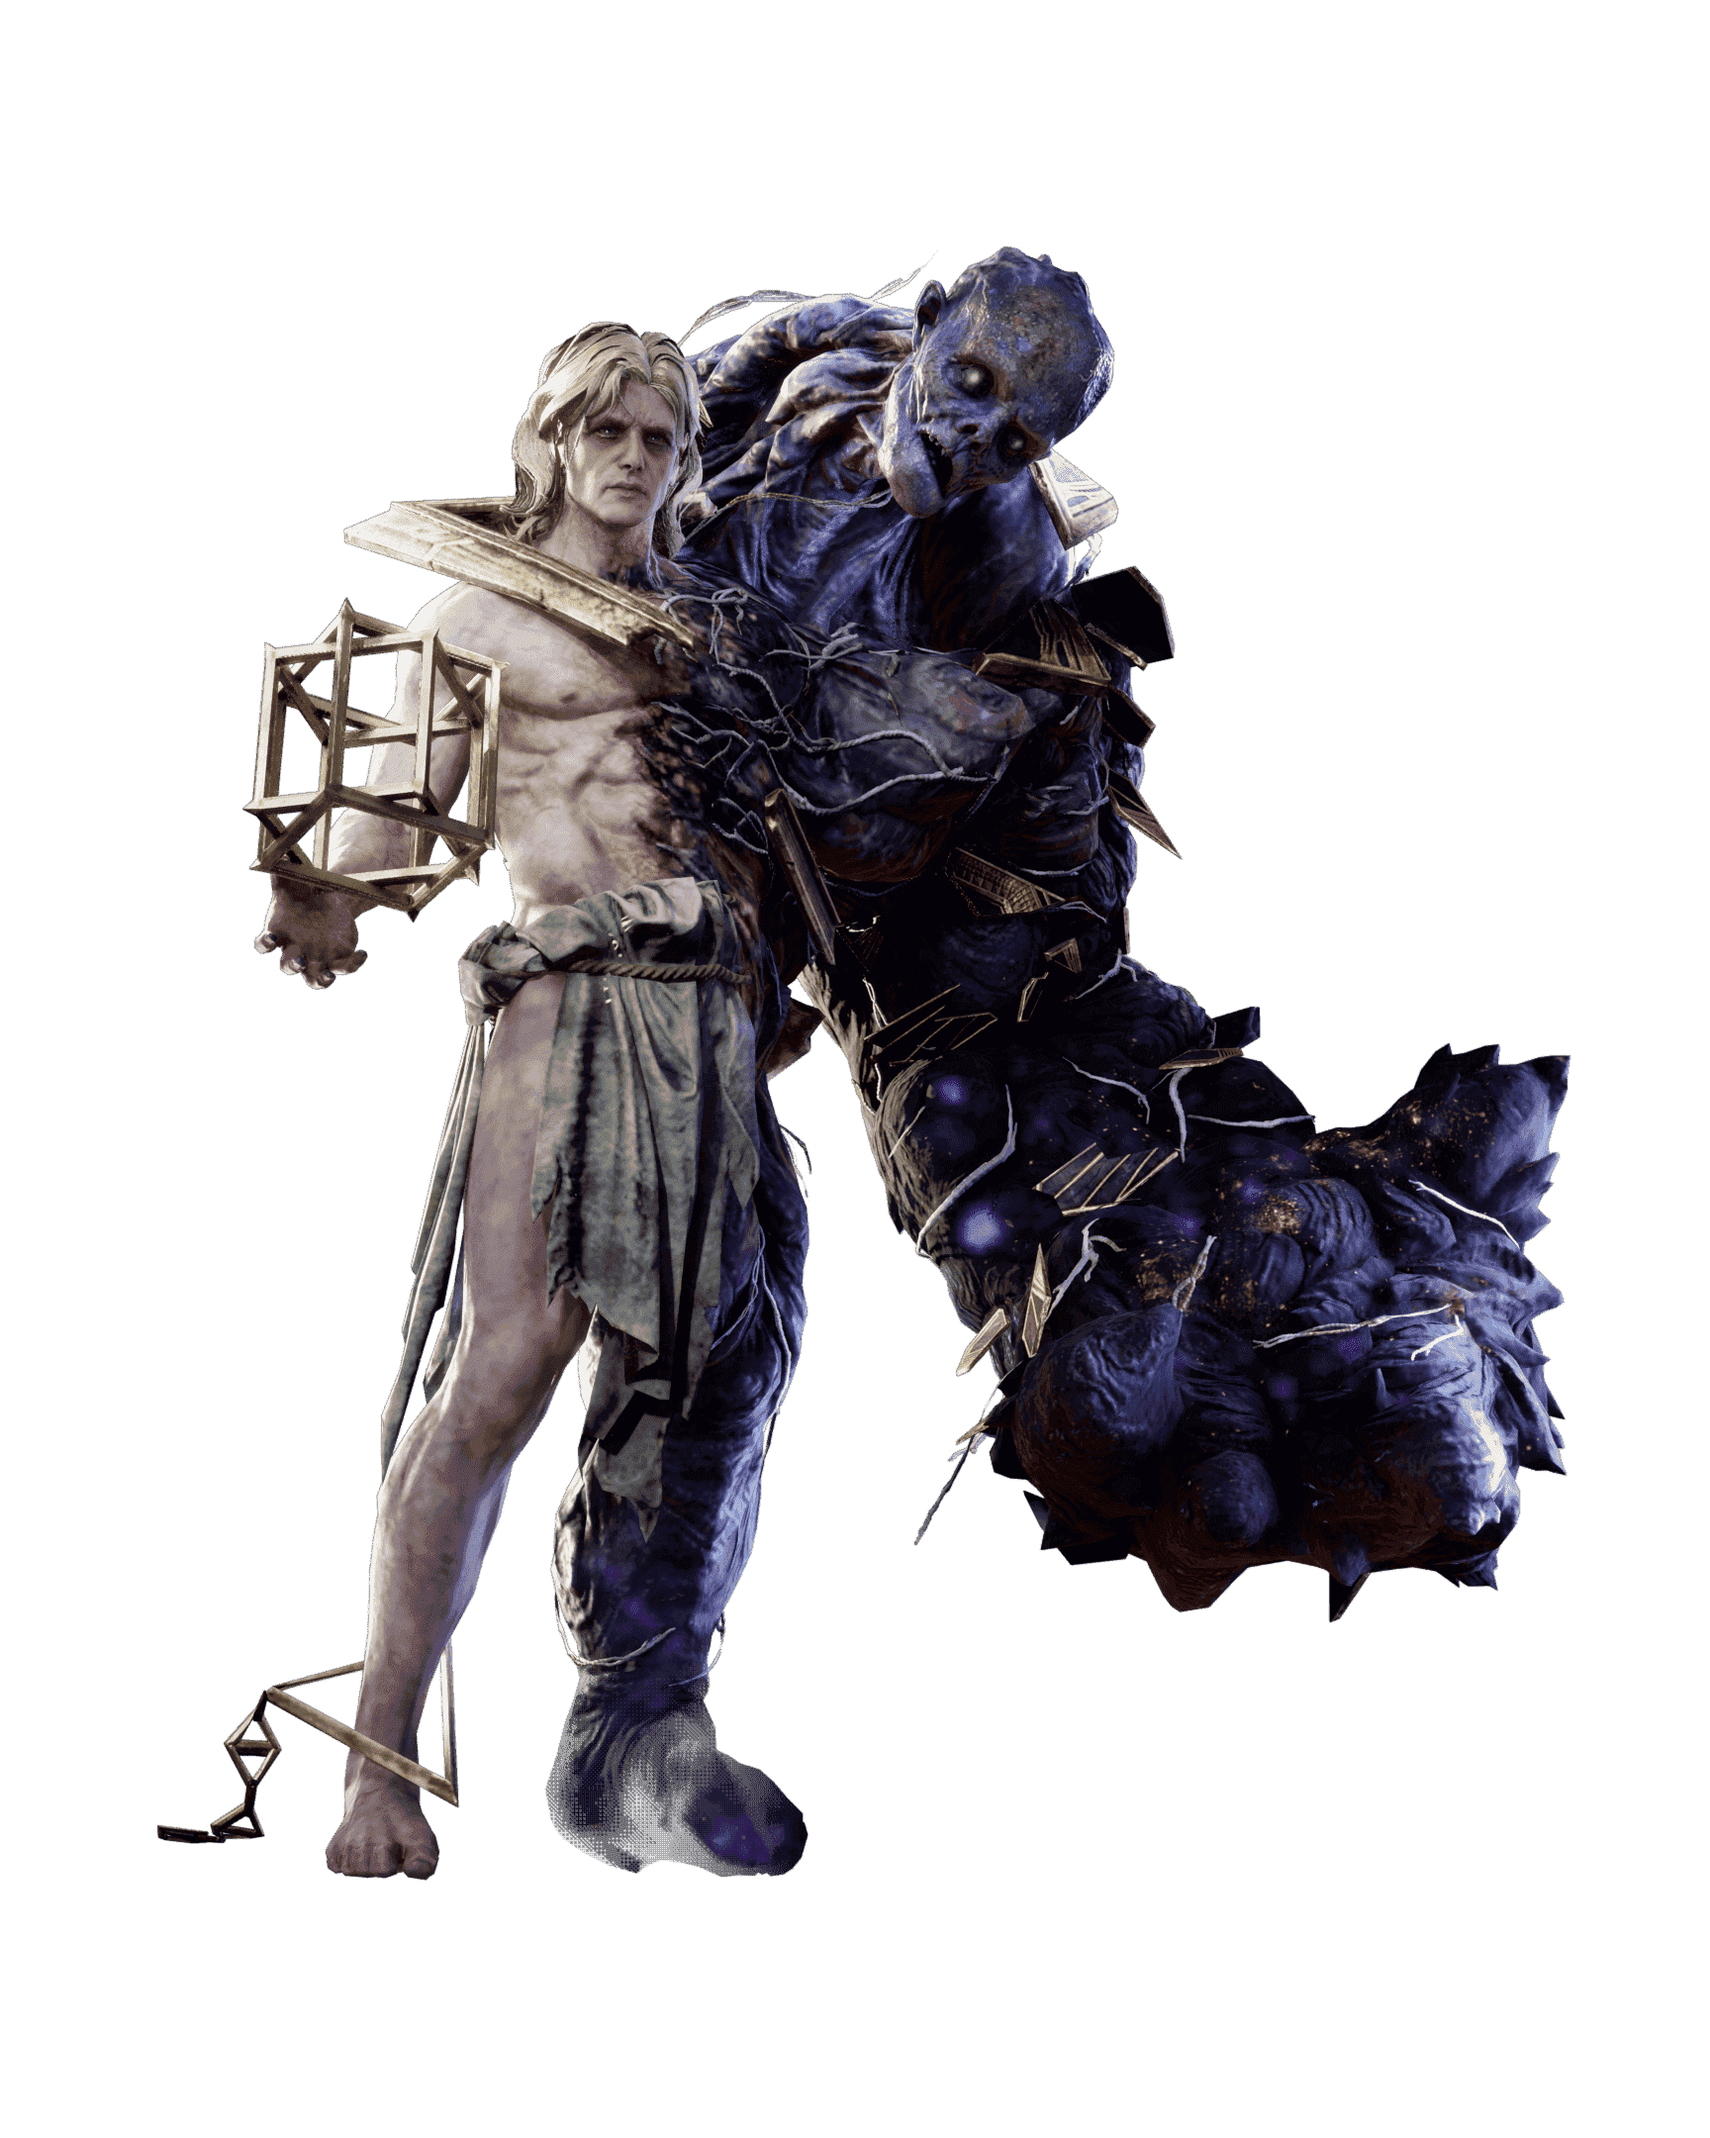
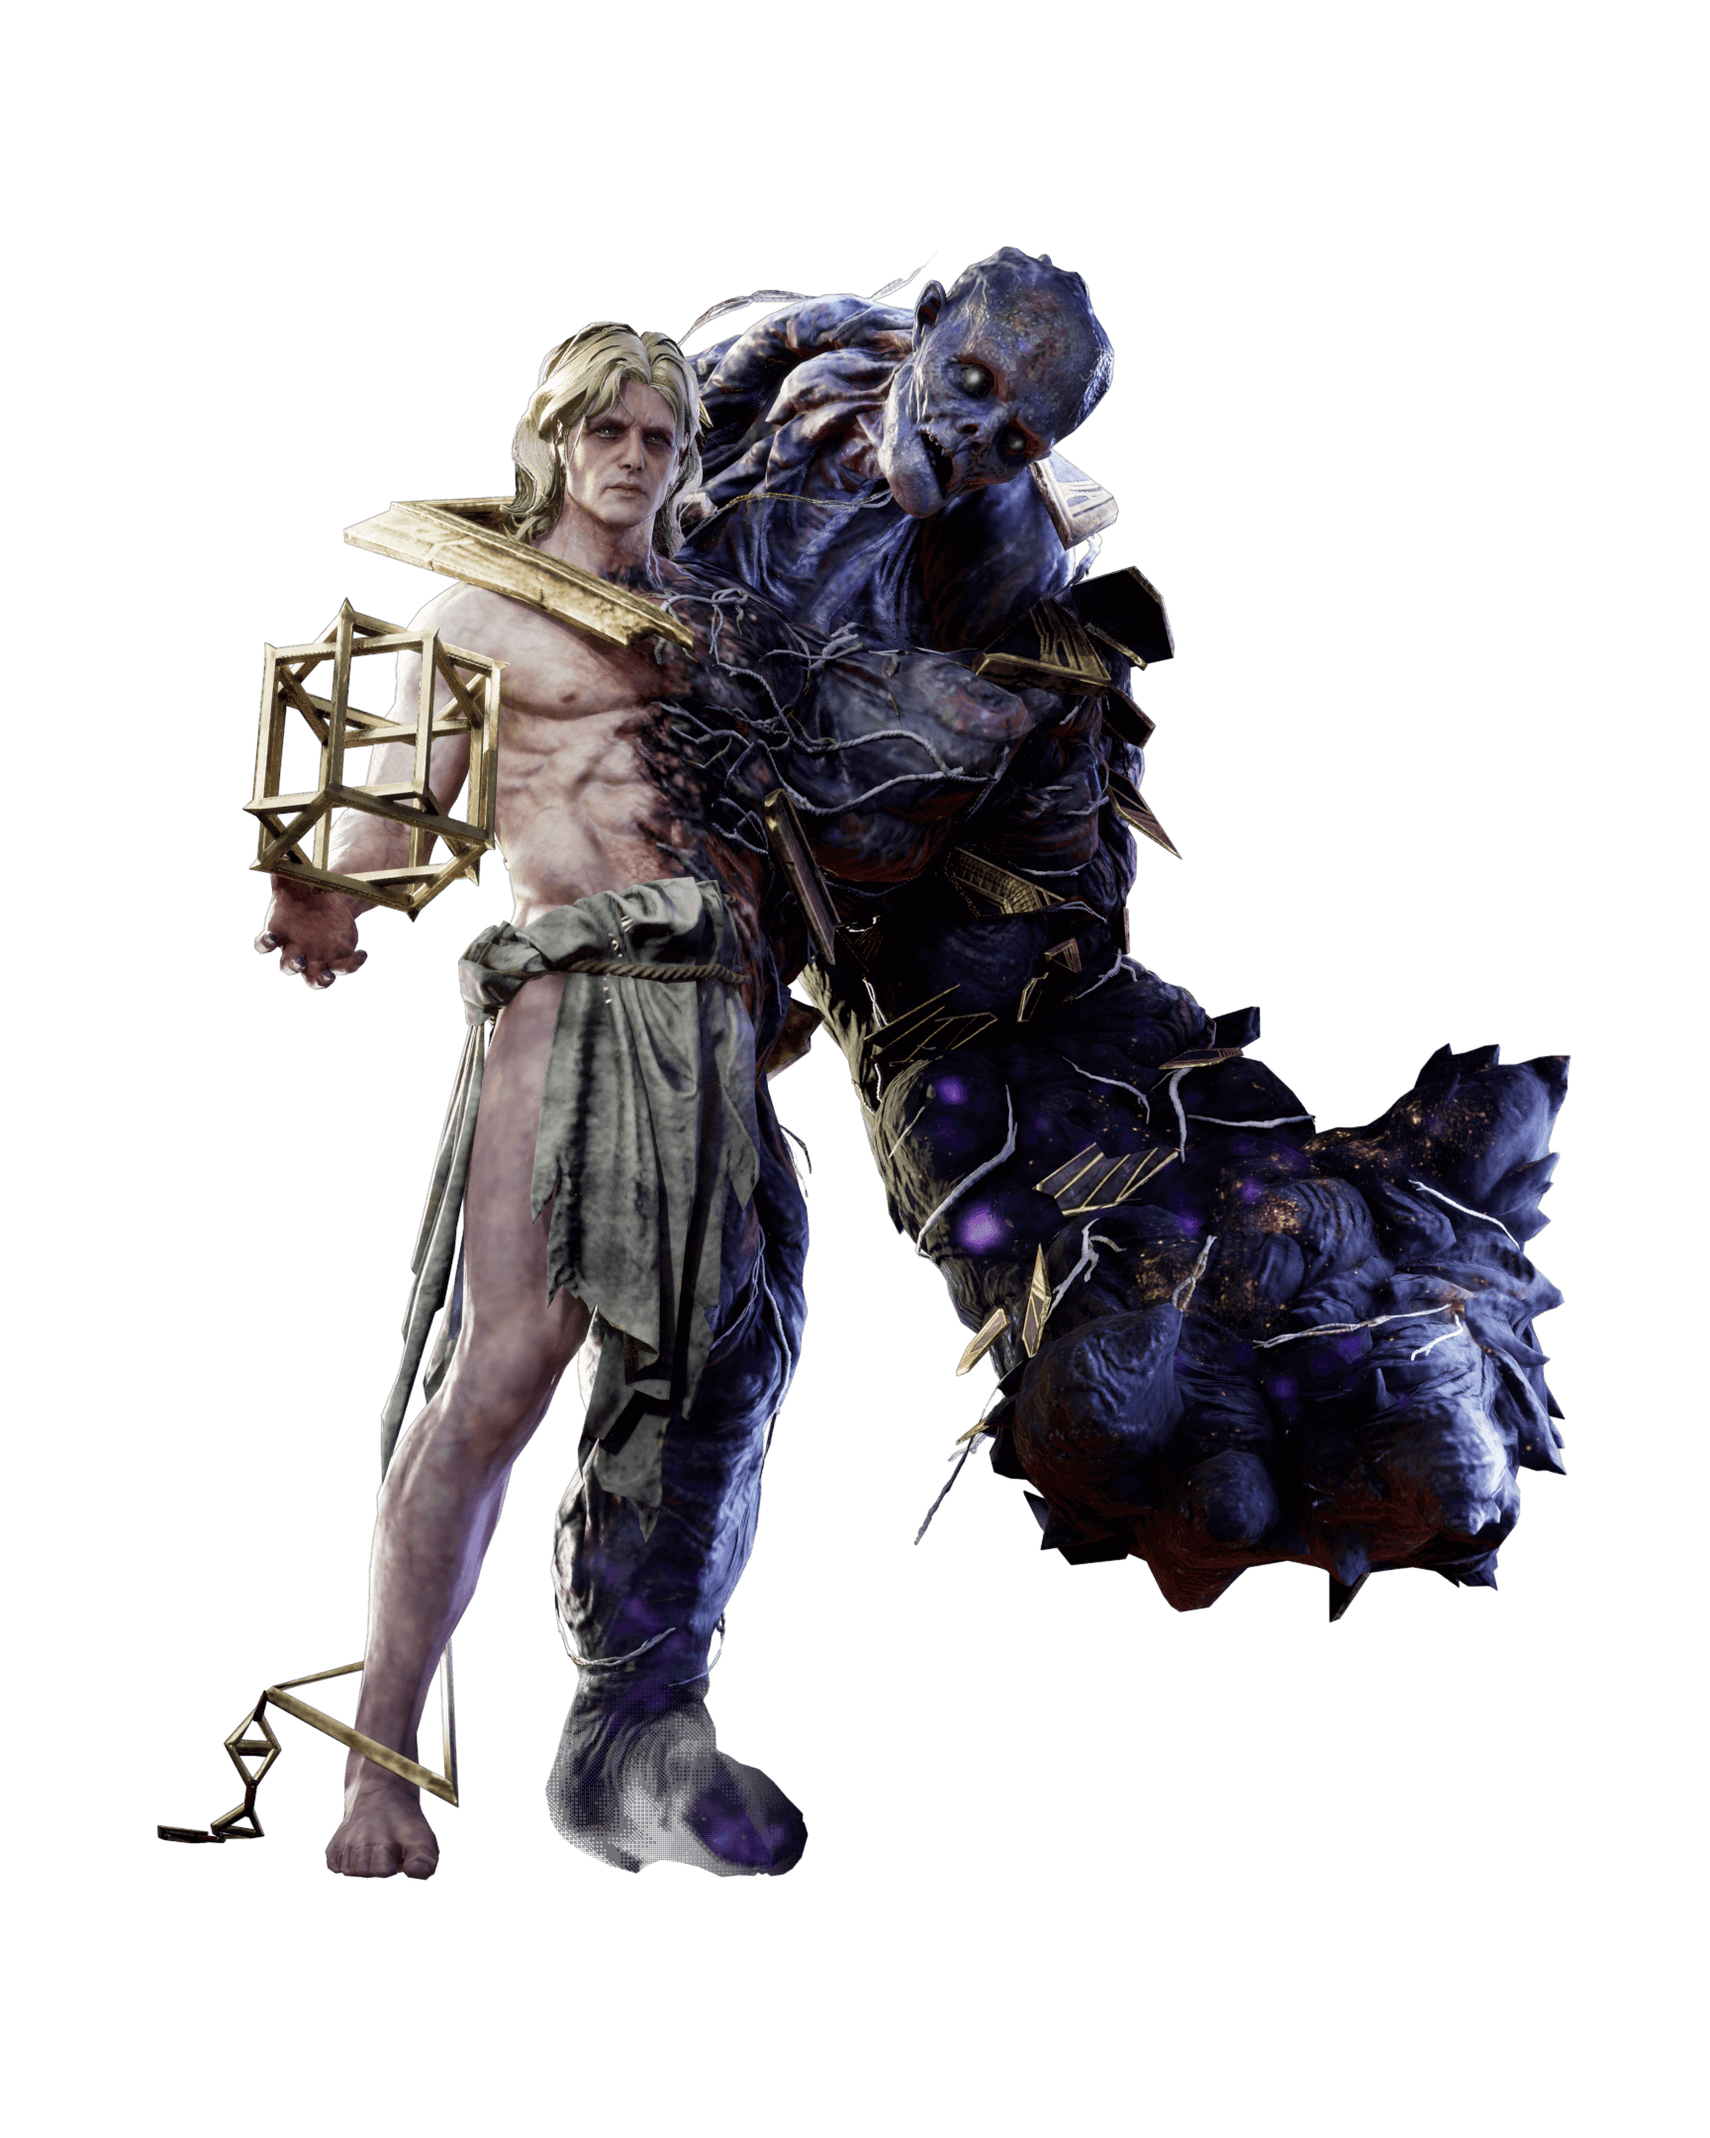
[boss-bondedpanas] s2 主視覺新增 mb 版本

diff --git a/boss-bondedpanas/css/style.css b/boss-bondedpanas/css/style.css
@@ -2740,13 +2740,10 @@ button {
             transform: translate(-50%, -50%);
     width: 620px;
     height: 100%;
-    top: 45%;
+    top: 25%;
     -webkit-transform: translate3d(-41%, -50%, 0);
             transform: translate3d(-41%, -50%, 0);
-    -webkit-mask-image: -webkit-gradient(linear, left bottom, left top, from(rgba(0, 0, 0, 0)), color-stop(50%, rgba(0, 0, 0, 0)), color-stop(68%, #000), to(#000));
-    -webkit-mask-image: linear-gradient(0deg, rgba(0, 0, 0, 0), rgba(0, 0, 0, 0) 50%, #000 68%, #000);
-            mask-image: -webkit-gradient(linear, left bottom, left top, from(rgba(0, 0, 0, 0)), color-stop(50%, rgba(0, 0, 0, 0)), color-stop(68%, #000), to(#000));
-            mask-image: linear-gradient(0deg, rgba(0, 0, 0, 0), rgba(0, 0, 0, 0) 50%, #000 68%, #000);
+    background-image: url(../images/s2_visual_mb.png);
   }
   .s2-section__intro {
     display: -webkit-box;

diff --git a/boss-bondedpanas/scss/_rwd-mobile.scss b/boss-bondedpanas/scss/_rwd-mobile.scss
@@ -45,9 +45,9 @@
       @include center;
       width: 620px;
       height: 100%;
-      top: 45%;
+      top: 25%;
       transform: translate3d(-41%,-50%,0);
-      mask-image: linear-gradient(0deg, rgba(0, 0, 0, 0), rgba(0, 0, 0, 0) 50%, #000 68%, #000);
+      background-image: url(../images/s2_visual_mb.png);
     }
 
     &__intro {
